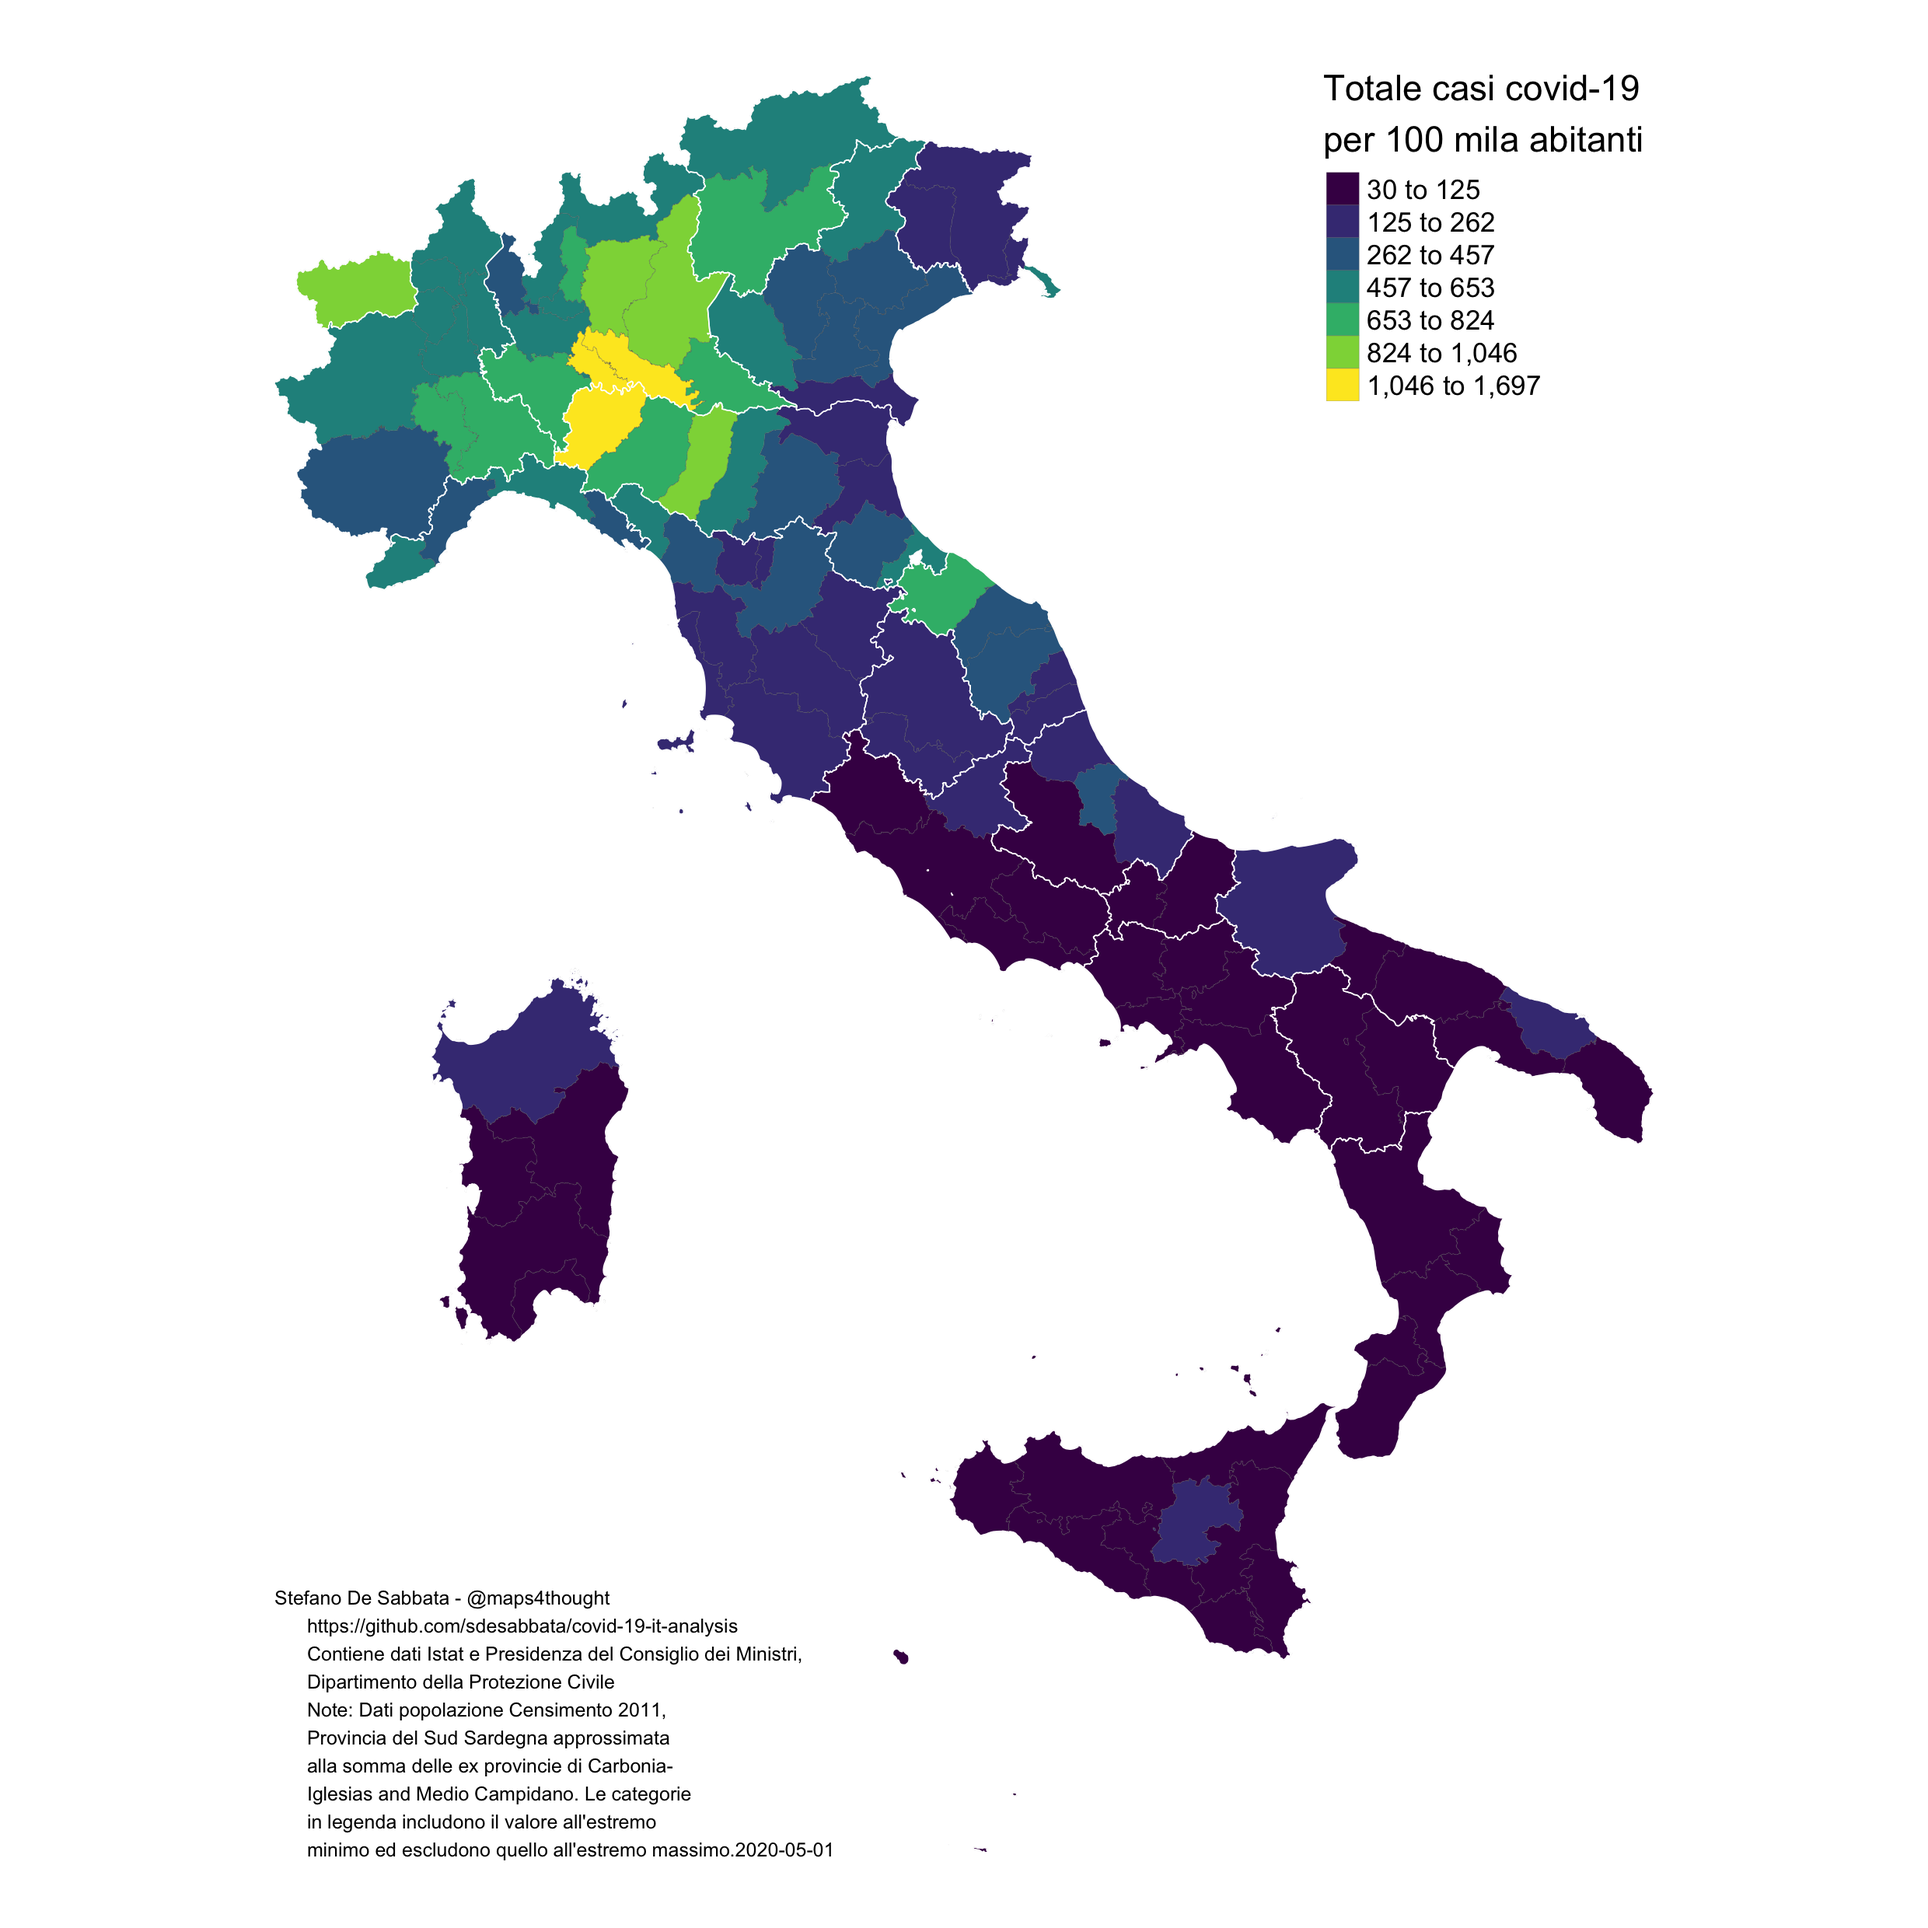
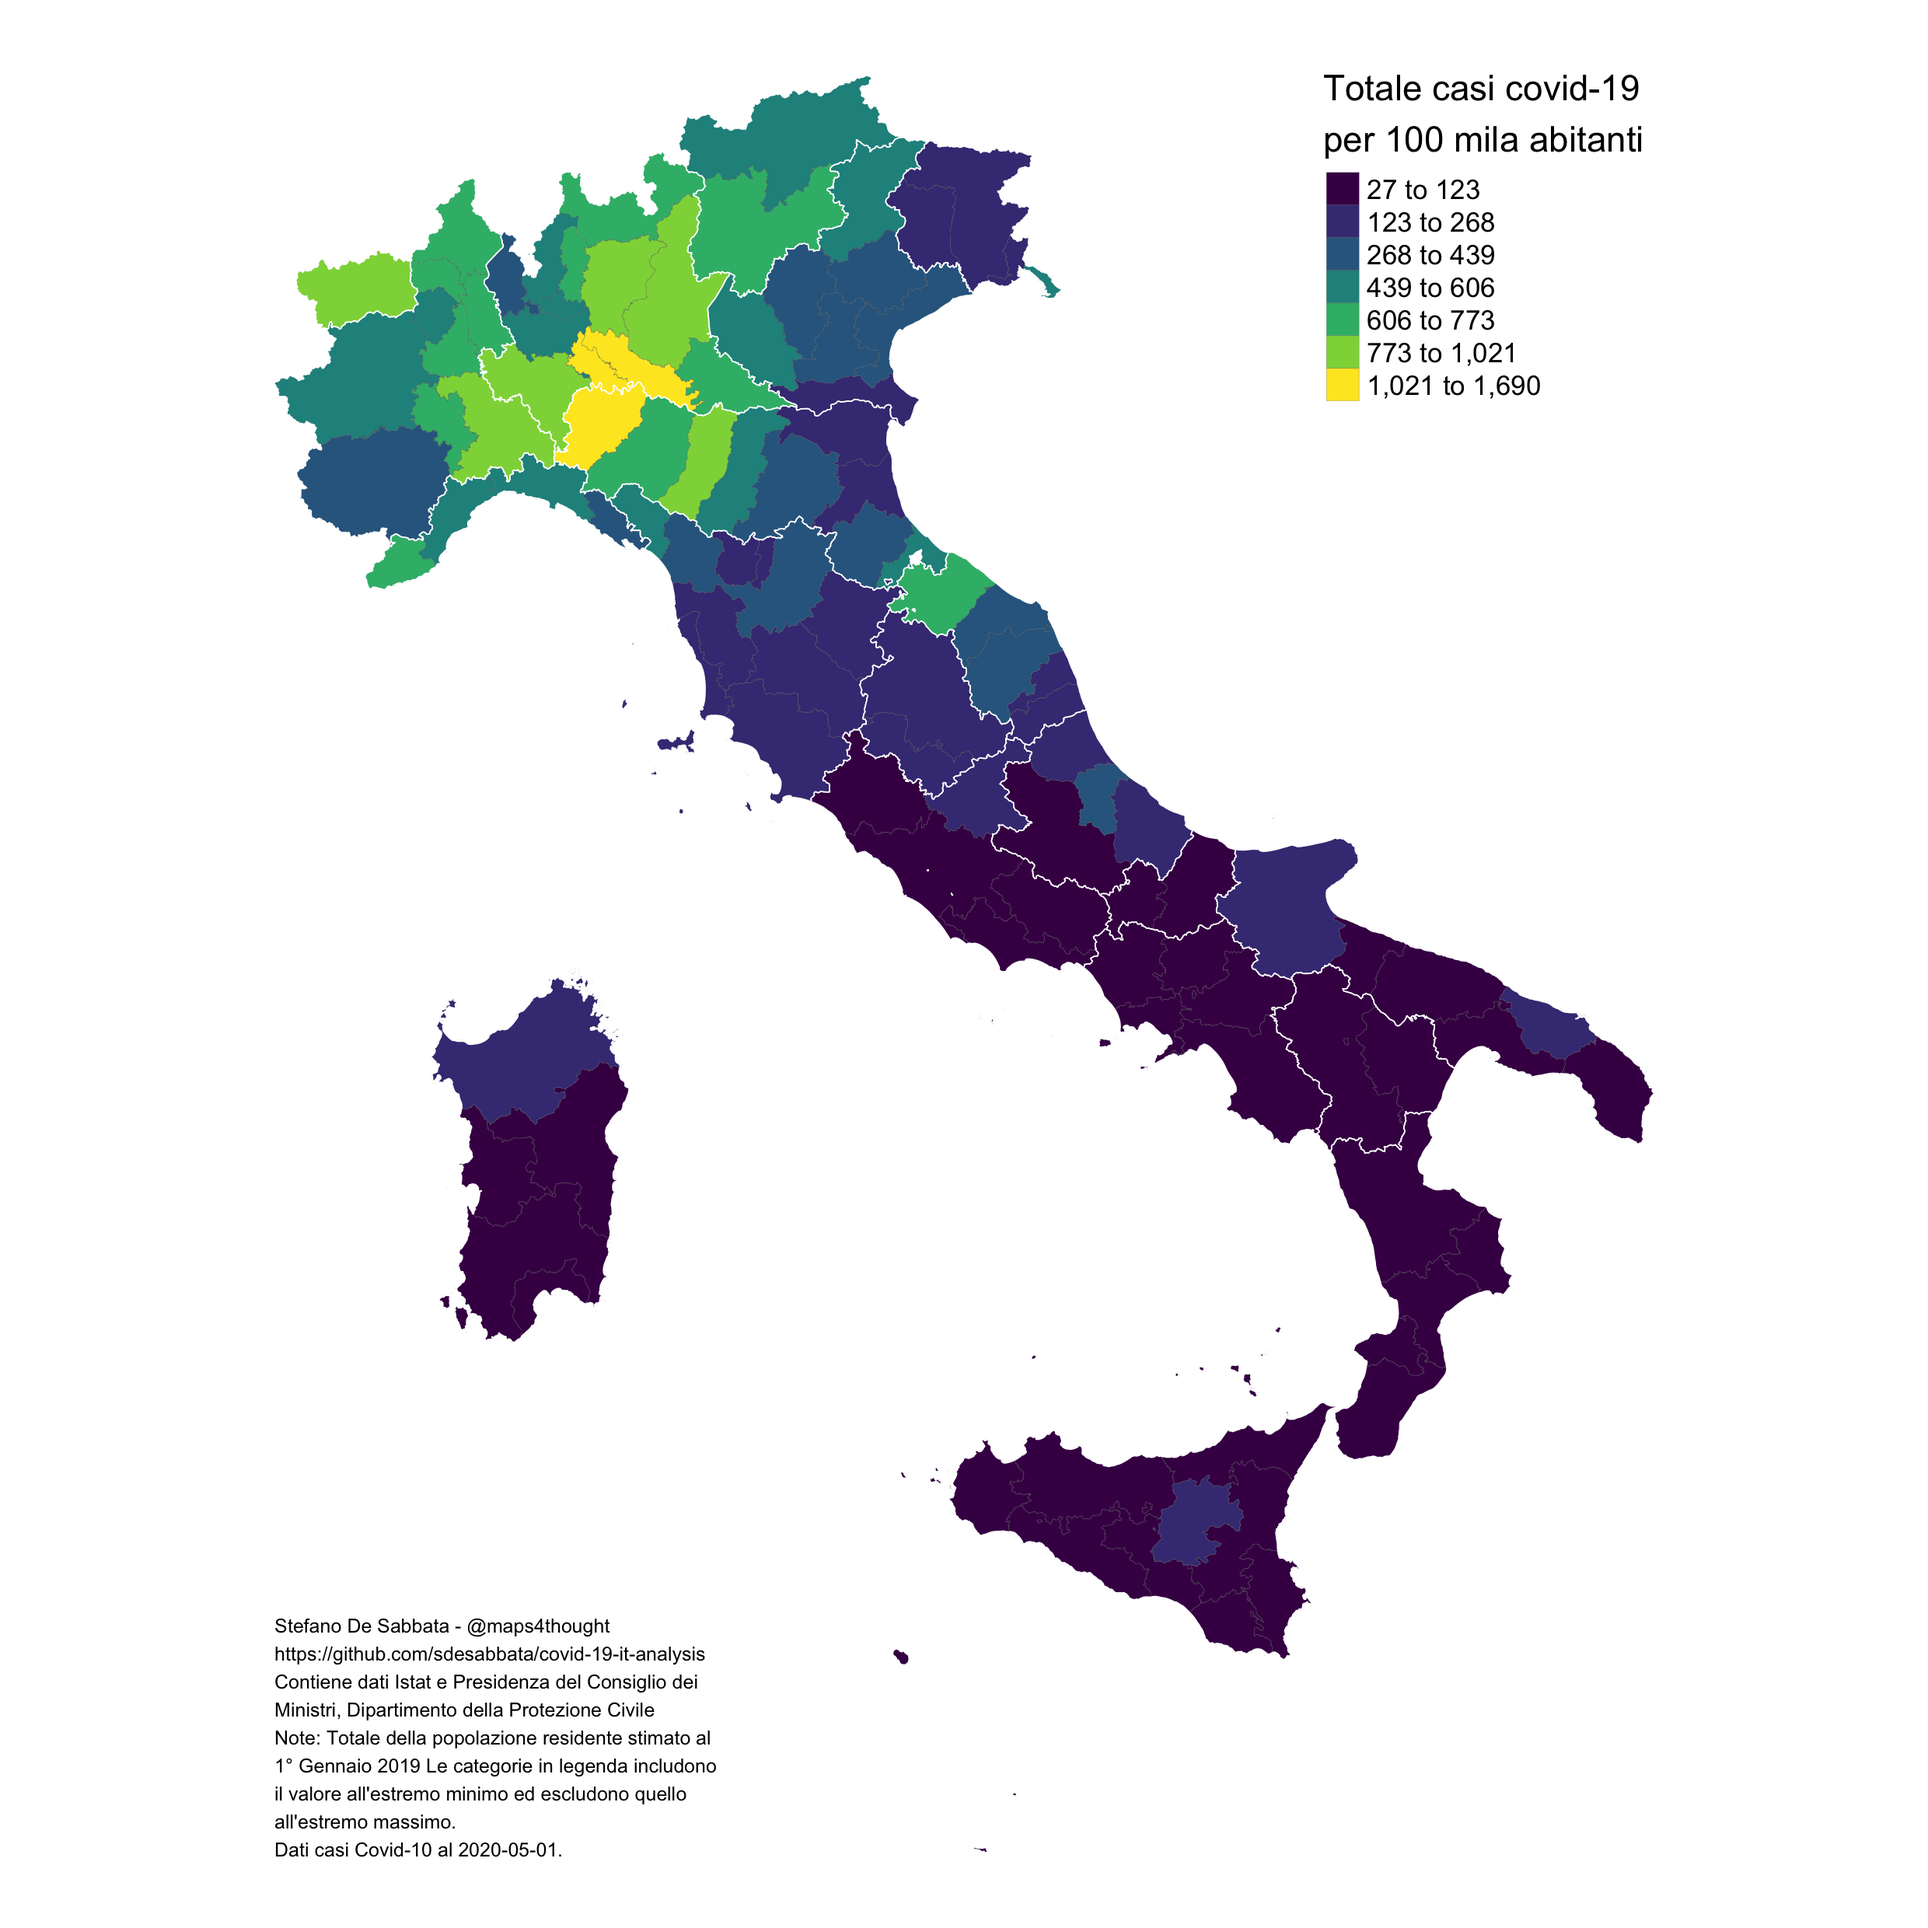
Moved to population estimates 2019

diff --git a/Istat/README.md b/Istat/README.md
@@ -6,6 +6,9 @@
 
 The *Data* folder conteined in this folder is set up to store data from [Istat](https://www.istat.it). As such, data are not shared here but can be retrieved from the [Istat data portal](http://dati.istat.it).
 
+- `tavola_pop_res01.csv`
+    - [Totale della Popolazione residente al 1° Gennaio 2019 per sesso e stato civile (Dati provvisori)](http://demo.istat.it/pop2019/index1.html)
+    - Headers changed to: CodiceProvincia, Nome, TotaleMaschi, TotaleFemmine, TotalePopolazione
 - `Censimento_2011_Indicatori_famiglie_per_Province.csv`: 
     - [Censimento 2011: Ampiezza demografica per Province](http://gisportal.istat.it/bt.carto/bt.carto.html).
 - `ProvCM01012020_g_WGS84.shp`:
